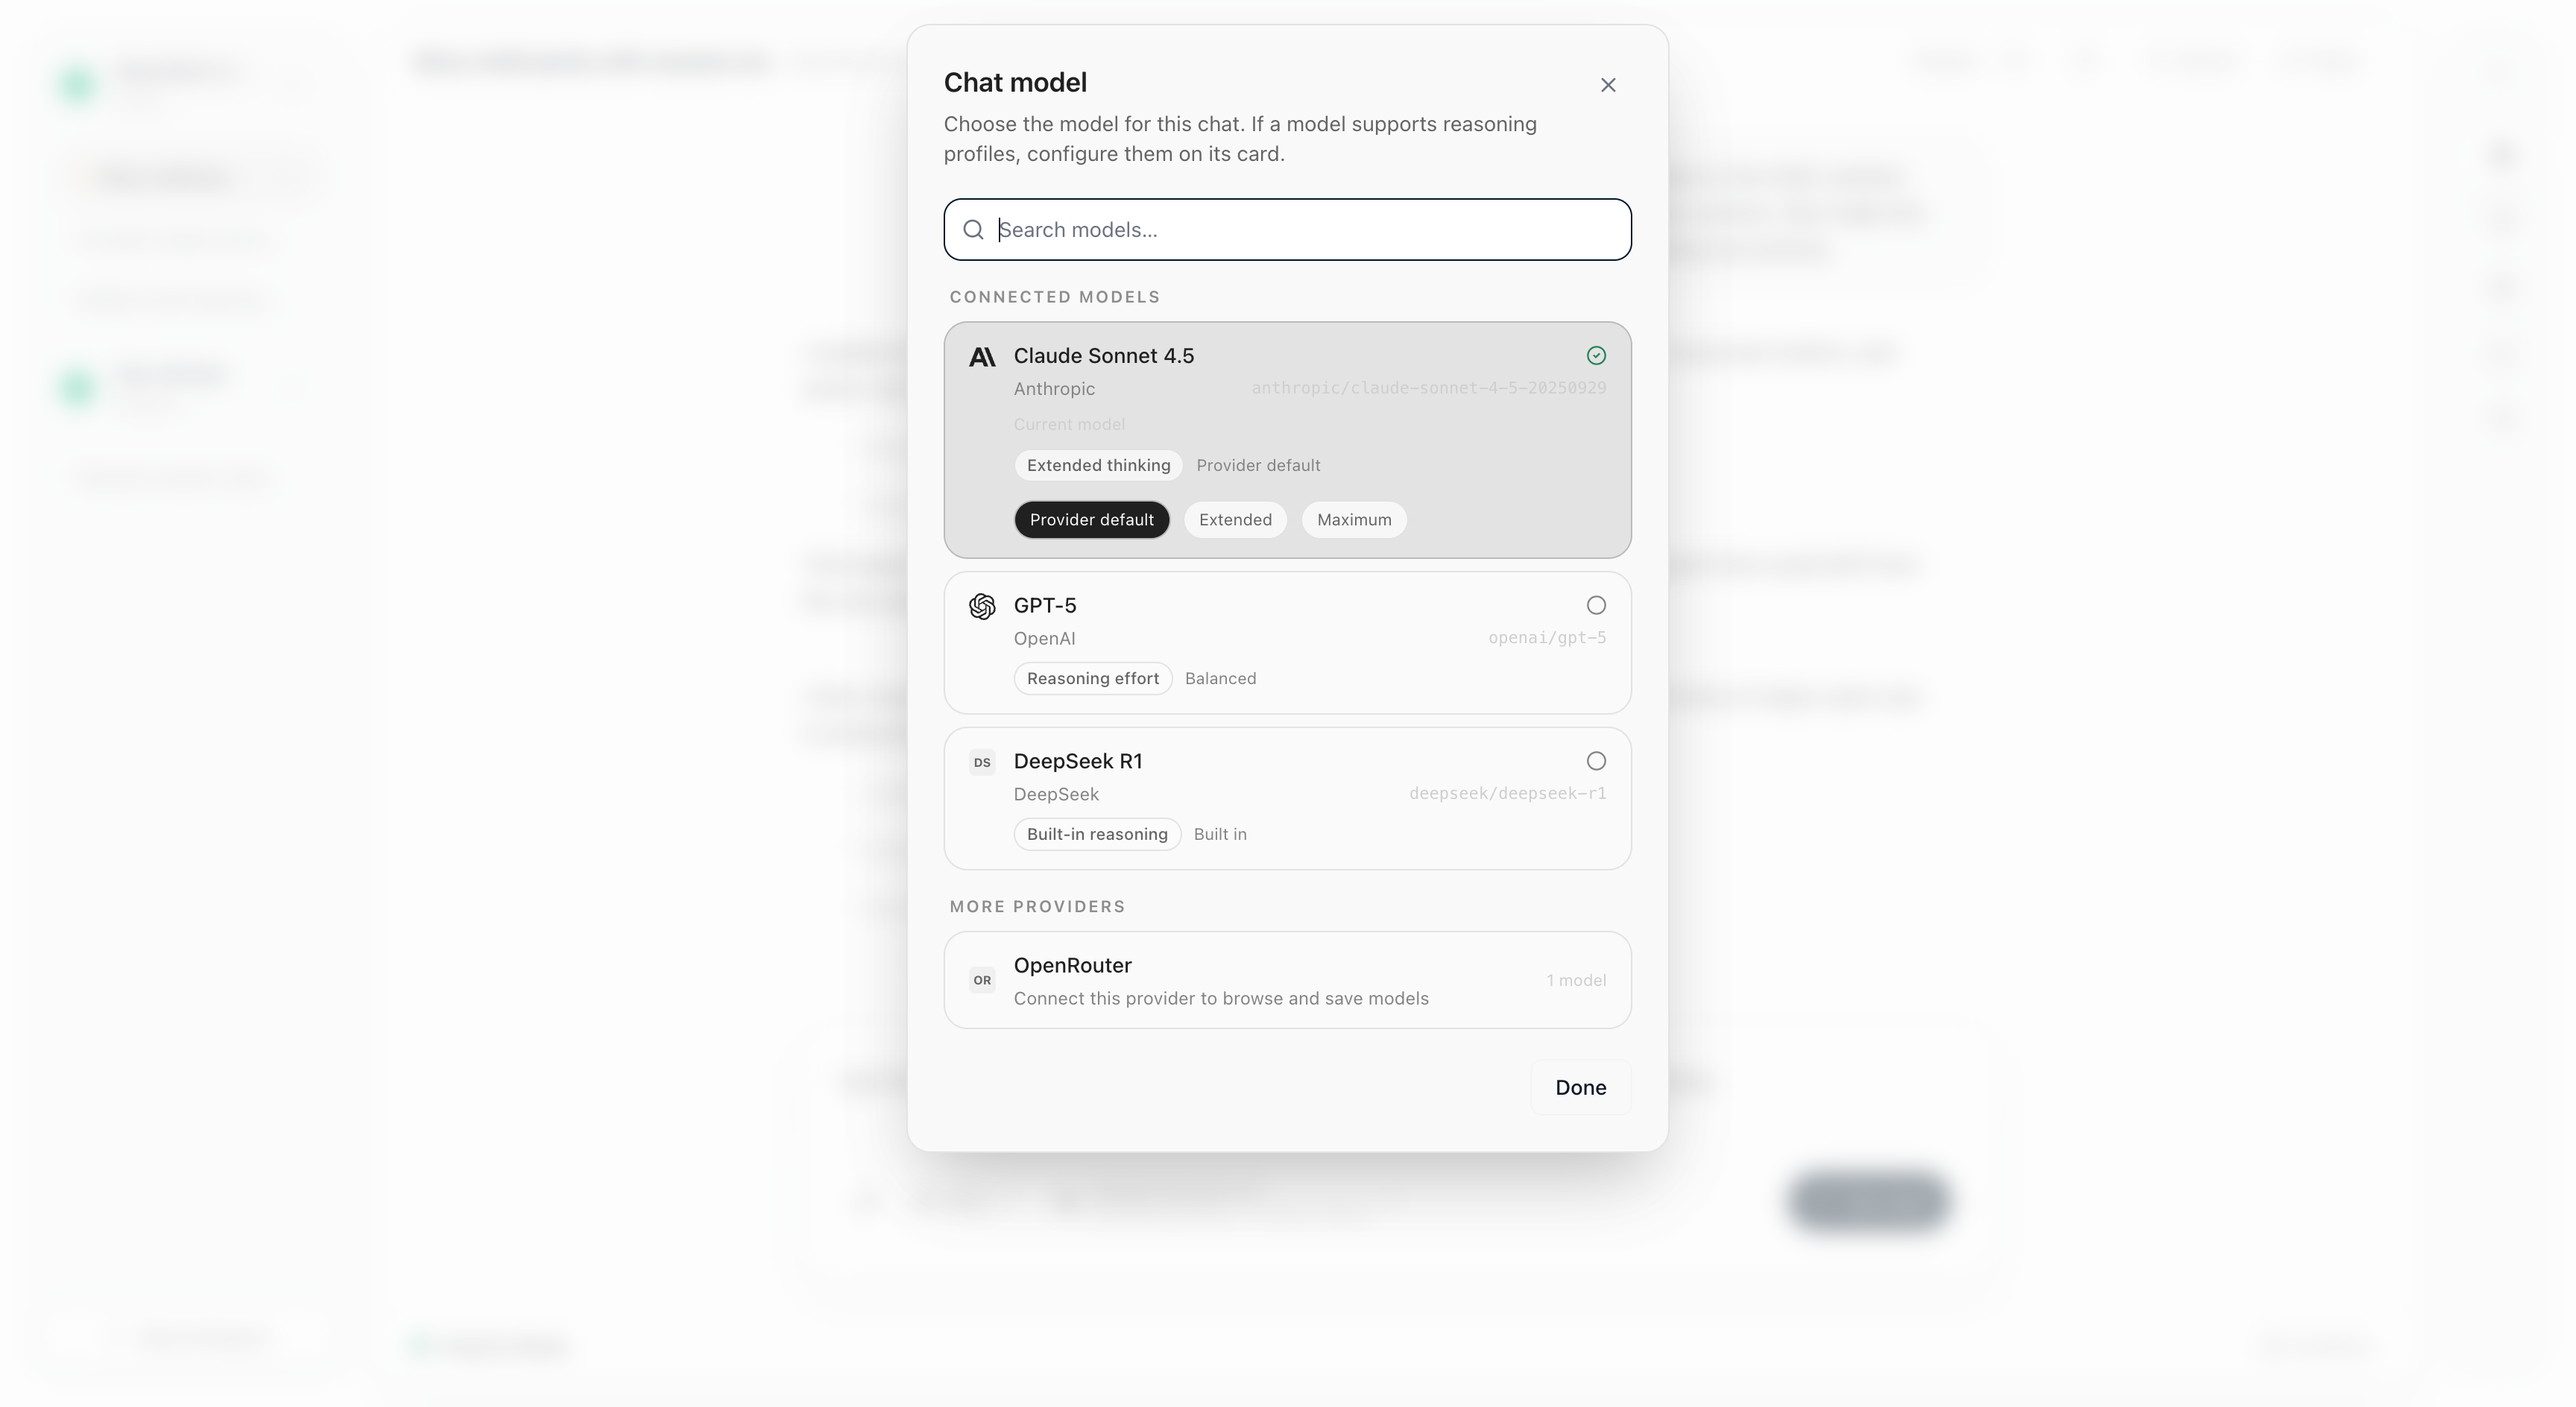
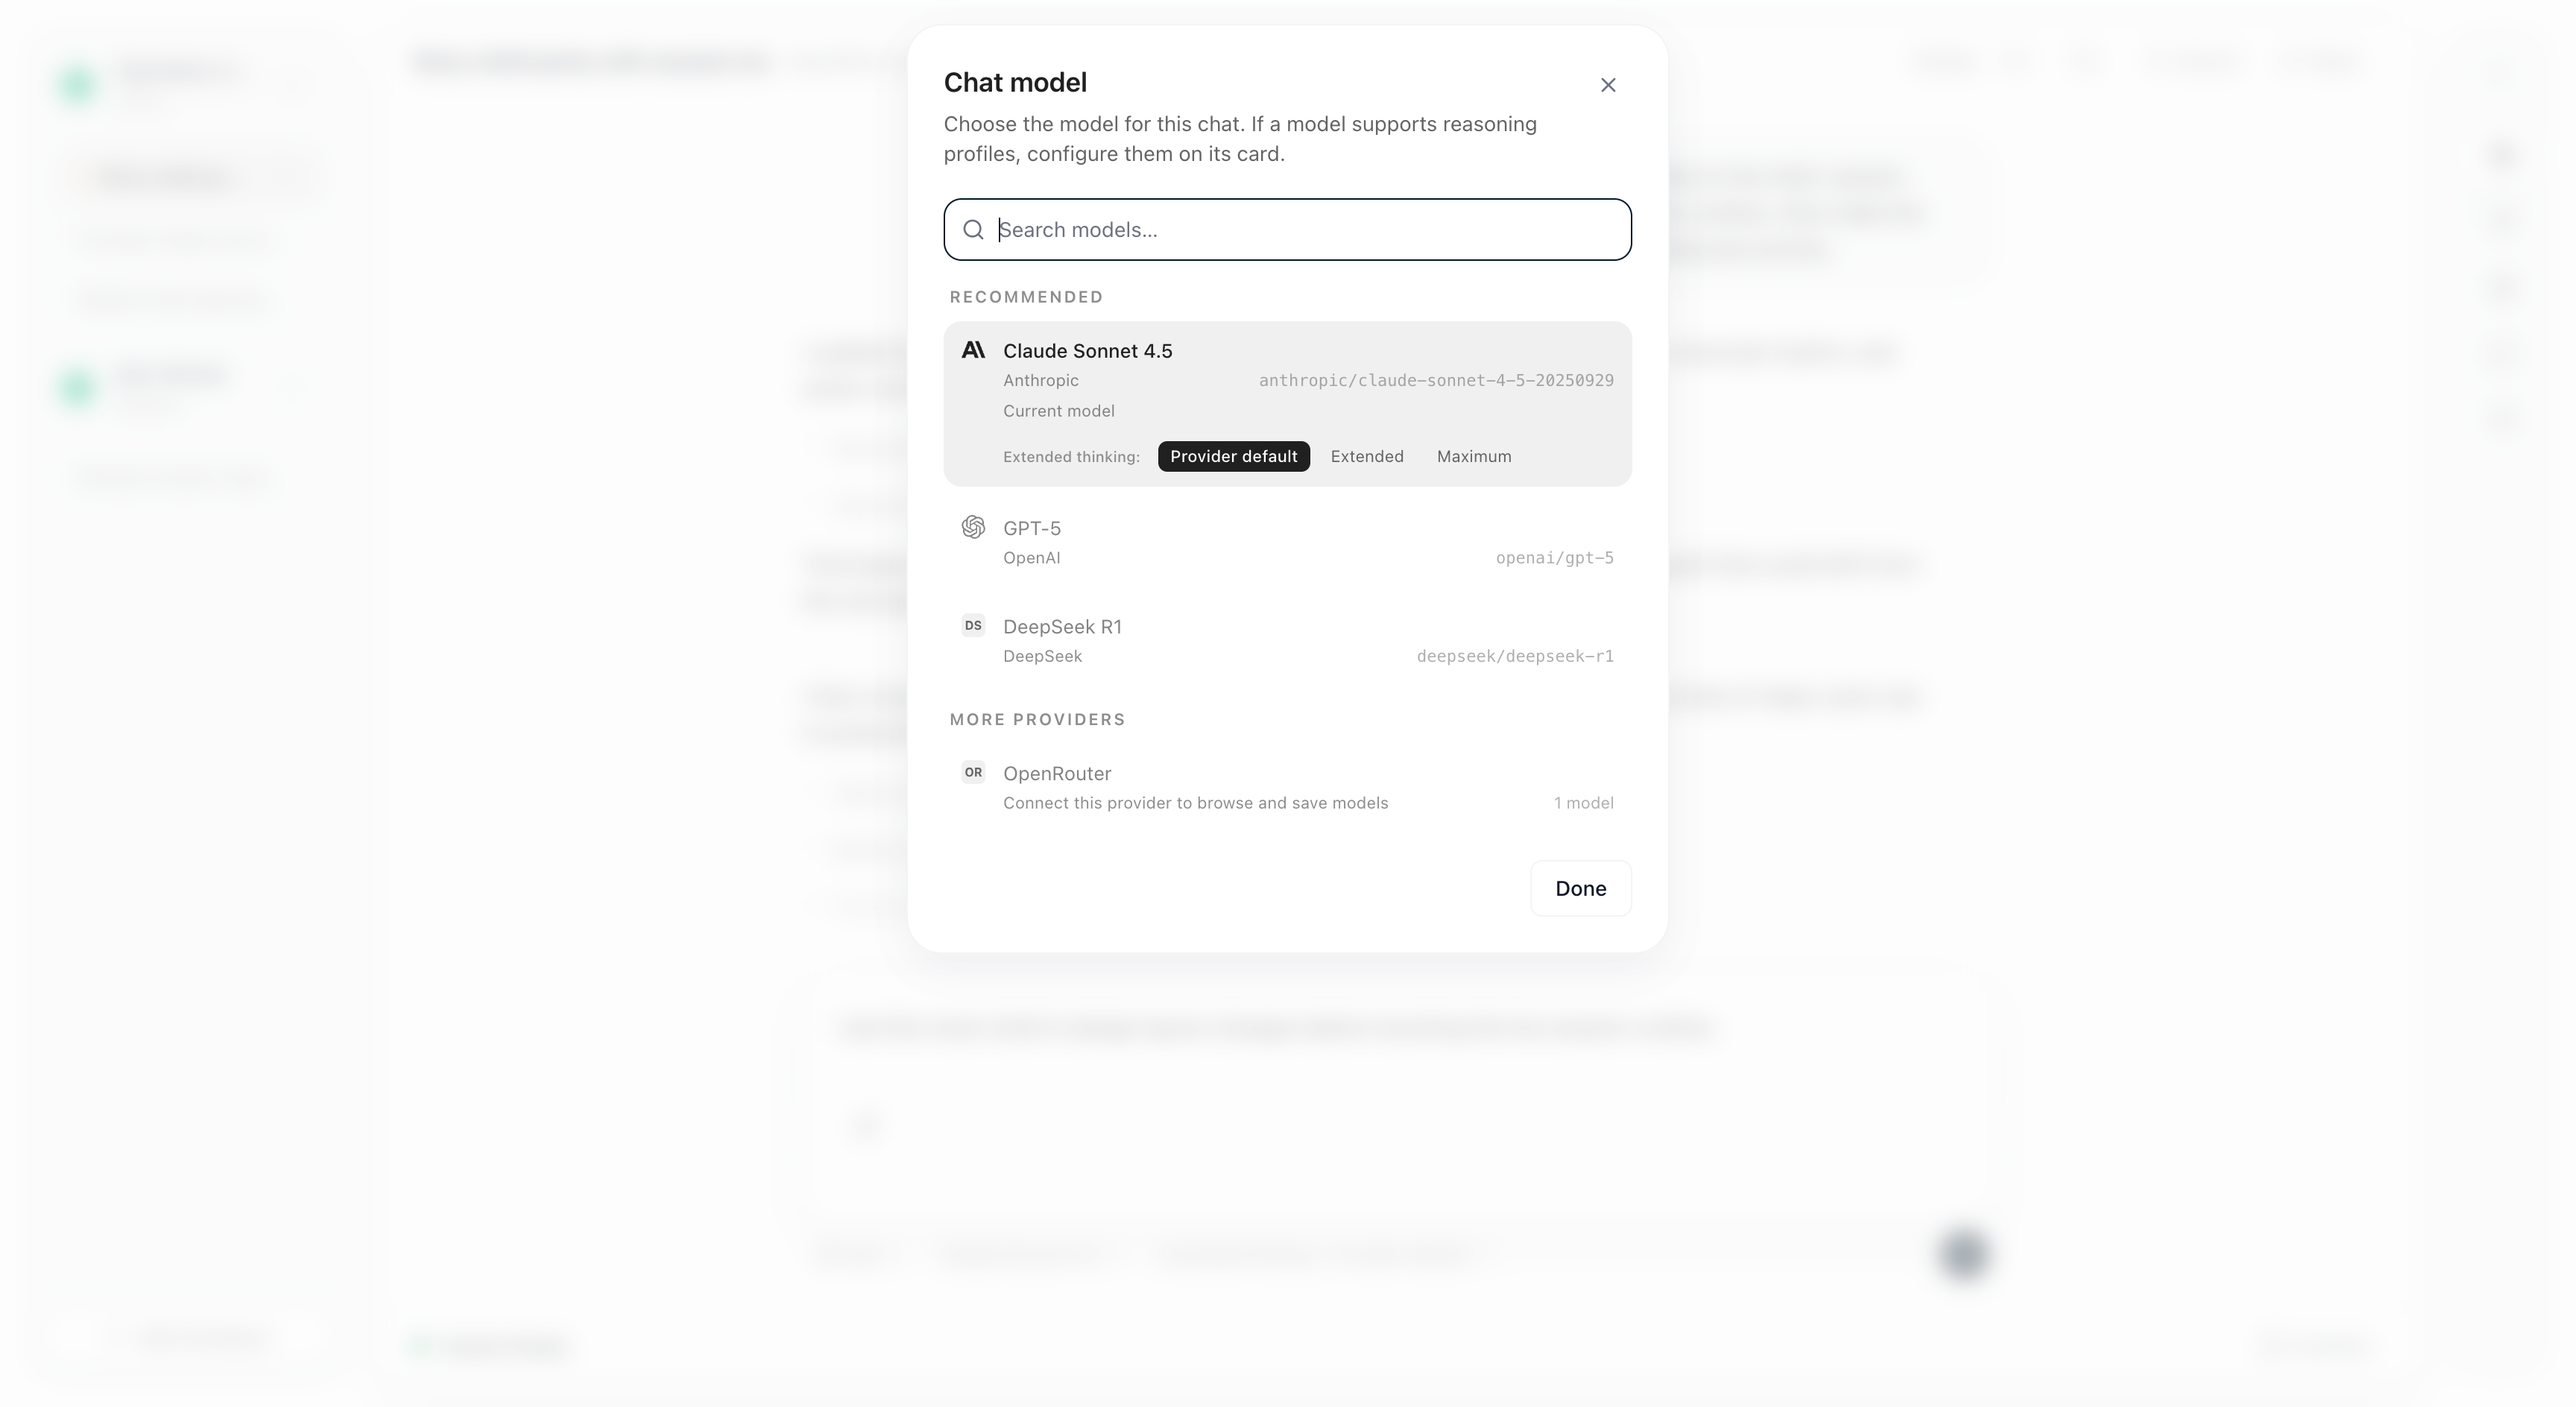
fix(app): flatten model picker options, remove nested buttons, match DLS colors

diff --git a/apps/app/src/app/components/model-picker-modal.tsx b/apps/app/src/app/components/model-picker-modal.tsx
@@ -190,16 +190,18 @@ export default function ModelPickerModal(props: ModelPickerModalProps) {
       });
 
     return (
-      <button
+      <div
+        role="button"
+        tabIndex={0}
         ref={(el) => {
-          optionRefs[index] = el;
+          optionRefs[index] = el as unknown as HTMLButtonElement;
         }}
-        class={`w-full text-left rounded-2xl border px-4 py-3 transition-colors ${
-          index === activeIndex()
-            ? "border-gray-8 bg-gray-12/10"
-            : active()
-              ? "border-gray-6/20 bg-gray-12/5"
-              : "border-gray-6/70 bg-gray-1/40 hover:bg-gray-1/60"
+        class={`group w-full text-left rounded-xl px-3 py-2.5 transition-colors cursor-pointer ${
+          active()
+            ? "bg-gray-3 text-gray-12"
+            : index === activeIndex()
+              ? "bg-gray-2 text-gray-12"
+              : "text-gray-10 hover:bg-gray-1/70 hover:text-gray-11"
         }`}
         onMouseEnter={() => {
           setActiveIndex(index);
@@ -210,72 +212,77 @@ export default function ModelPickerModal(props: ModelPickerModalProps) {
             modelID: opt.modelID,
           });
         }}
+        onKeyDown={(event) => {
+          if (event.key !== "Enter" && event.key !== " ") return;
+          if (event.isComposing || event.keyCode === 229) return;
+          event.preventDefault();
+          props.onSelect({
+            providerID: opt.providerID,
+            modelID: opt.modelID,
+          });
+        }}
       >
         <div class="flex items-start gap-3">
-          <ProviderIcon providerId={opt.providerID} size={18} class="mt-0.5 text-gray-12" />
+          <ProviderIcon providerId={opt.providerID} size={16} class={`mt-[1px] shrink-0 transition-colors ${active() ? 'text-gray-12' : 'text-gray-10 group-hover:text-gray-11'}`} />
           <div class="flex-1 min-w-0">
-            <div class="text-sm font-medium text-gray-12 flex items-center justify-between gap-2">
+            <div class={`text-[13px] flex items-center justify-between gap-2 ${active() ? 'font-medium text-gray-12' : 'text-current'}`}>
               <span class="truncate">{opt.title}</span>
-              <Show when={active()} fallback={<Circle size={14} class="text-gray-10" />}>
-                <CheckCircle2 size={14} class="text-green-11" />
-              </Show>
             </div>
-            <div class="mt-1 flex items-center gap-3 text-xs text-gray-10">
+            <div class={`mt-0.5 flex items-center gap-3 text-[11px] ${active() ? 'text-gray-10' : 'text-gray-9 group-hover:text-gray-10'}`}>
               <span class="truncate">{opt.description ?? opt.providerID}</span>
-              <span class="ml-auto text-[11px] text-gray-7 font-mono">
+              <span class="ml-auto opacity-70 font-mono">
                 {opt.providerID}/{opt.modelID}
               </span>
             </div>
             <Show when={opt.footer}>
-              <div class="text-[11px] text-gray-7 mt-2">{opt.footer}</div>
+              <div class={`text-[11px] mt-1 ${active() ? 'text-gray-10' : 'text-gray-8 group-hover:text-gray-9'}`}>{opt.footer}</div>
             </Show>
-            <div class="mt-2 flex flex-wrap items-center gap-2 text-[11px] text-gray-8">
-              <span class="rounded-full border border-gray-6/70 bg-gray-1/70 px-2 py-0.5 font-medium text-gray-11">
-                {opt.behaviorTitle}
-              </span>
-              <span class="text-gray-10">{opt.behaviorLabel}</span>
-            </div>
             <Show when={active() && (opt.behaviorOptions?.length ?? 0) > 0}>
-              <div class="mt-3 flex flex-wrap gap-2">
-                <For each={opt.behaviorOptions}>
-                  {(option) => (
-                    <button
-                      type="button"
-                      class={`rounded-full border px-2.5 py-1 text-[11px] transition-colors ${
-                        opt.behaviorValue === option.value
-                          ? "border-gray-8 bg-gray-12 text-gray-1"
-                          : "border-gray-6/70 bg-gray-1/80 text-gray-11 hover:bg-gray-2"
-                      }`}
-                      onClick={(event) => {
-                        event.preventDefault();
-                        event.stopPropagation();
-                        props.onBehaviorChange(
-                          { providerID: opt.providerID, modelID: opt.modelID },
-                          option.value,
-                        );
-                      }}
-                    >
-                      {option.label}
-                    </button>
-                  )}
-                </For>
+              <div class="mt-3 flex items-center gap-2" onKeyDown={(e) => e.stopPropagation()}>
+                <span class="text-[10px] font-medium text-gray-9 mr-1">{opt.behaviorTitle}:</span>
+                <div class="flex flex-wrap items-center gap-1.5" onClick={(e) => e.stopPropagation()}>
+                  <For each={opt.behaviorOptions}>
+                    {(option) => (
+                      <button
+                        type="button"
+                        class={`rounded-md text-[11px] px-2 py-0.5 transition-colors ${
+                          opt.behaviorValue === option.value
+                            ? "bg-gray-12 text-gray-1 font-medium"
+                            : "text-gray-11 hover:bg-gray-4 hover:text-gray-12"
+                        }`}
+                        onClick={(event) => {
+                          event.preventDefault();
+                          event.stopPropagation();
+                          props.onBehaviorChange(
+                            { providerID: opt.providerID, modelID: opt.modelID },
+                            option.value,
+                          );
+                        }}
+                      >
+                        {option.label}
+                      </button>
+                    )}
+                  </For>
+                </div>
               </div>
             </Show>
           </div>
         </div>
-      </button>
+      </div>
     );
   };
 
   const renderProviderLink = (provider: { providerID: string; title: string; matchCount: number }, index: number) => (
-    <button
+    <div
+      role="button"
+      tabIndex={0}
       ref={(el) => {
-        optionRefs[index] = el;
+        optionRefs[index] = el as unknown as HTMLButtonElement;
       }}
-      class={`w-full text-left rounded-2xl border px-4 py-3 transition-colors ${
+      class={`group w-full text-left rounded-xl px-3 py-2.5 transition-colors cursor-pointer ${
         index === activeIndex()
-          ? "border-gray-8 bg-gray-12/10"
-          : "border-gray-6/70 bg-gray-1/40 hover:bg-gray-1/60"
+          ? "bg-gray-2 text-gray-12"
+          : "text-gray-10 hover:bg-gray-1/70 hover:text-gray-11"
       }`}
       onMouseEnter={() => {
         setActiveIndex(index);
@@ -284,26 +291,35 @@ export default function ModelPickerModal(props: ModelPickerModalProps) {
         props.onClose({ restorePromptFocus: false });
         props.onOpenSettings();
       }}
+      onKeyDown={(event) => {
+        if (event.key !== "Enter" && event.key !== " ") return;
+        if (event.isComposing || event.keyCode === 229) return;
+        event.preventDefault();
+        props.onClose({ restorePromptFocus: false });
+        props.onOpenSettings();
+      }}
     >
-      <div class="flex items-center gap-3">
-        <ProviderIcon providerId={provider.providerID} size={18} class="text-gray-12" />
+      <div class="flex items-start gap-3">
+        <ProviderIcon providerId={provider.providerID} size={16} class={`mt-[1px] shrink-0 transition-colors ${index === activeIndex() ? 'text-gray-12' : 'text-gray-10 group-hover:text-gray-11'}`} />
         <div class="flex-1 min-w-0">
-          <div class="text-sm font-medium text-gray-12 truncate">{provider.title}</div>
-          <div class="mt-1 text-xs text-gray-10">Connect this provider to browse and save models</div>
-        </div>
-        <div class="flex items-center gap-3 shrink-0">
-          <div class="text-[11px] text-gray-7">
-            {provider.matchCount} {provider.matchCount === 1 ? "model" : "models"}
+          <div class={`text-[13px] flex items-center justify-between gap-2 text-current`}>
+            <span class="truncate">{provider.title}</span>
+          </div>
+          <div class={`mt-0.5 flex items-center gap-3 text-[11px] ${index === activeIndex() ? 'text-gray-10' : 'text-gray-9 group-hover:text-gray-10'}`}>
+            <span class="truncate">Connect this provider to browse and save models</span>
+            <span class="ml-auto opacity-70">
+              {provider.matchCount} {provider.matchCount === 1 ? "model" : "models"}
+            </span>
           </div>
         </div>
       </div>
-    </button>
+    </div>
   );
 
   return (
     <Show when={props.open}>
       <div class="fixed inset-0 z-50 bg-gray-1/60 backdrop-blur-sm flex items-start justify-center p-4 overflow-y-auto">
-        <div class="bg-gray-2 border border-gray-6/70 w-full max-w-lg rounded-2xl shadow-2xl overflow-hidden max-h-[calc(100vh-2rem)] flex flex-col">
+        <div class="bg-dls-surface border border-dls-border w-full max-w-lg rounded-[24px] shadow-[var(--dls-shell-shadow)] overflow-hidden max-h-[calc(100vh-2rem)] flex flex-col">
           <div class="p-6 flex flex-col min-h-0">
             <div class="flex items-start justify-between gap-4">
               <div>

diff --git a/apps/app/pr/model-behavior-picker-ux.md b/apps/app/pr/model-behavior-picker-ux.md
@@ -33,7 +33,8 @@ Verified:
 Verified:
 - The picker explains each model's reasoning pattern (`Reasoning effort`, `Extended thinking`, `Built-in reasoning`).
 - The active model exposes inline behavior options on its card.
-- Switching from Claude to GPT-5 updated the composer label from `Extended thinking · Maximum` to `Reasoning effort · Provider default`.
+- Removed the old heavy pill styling and "BEHAVIOR FOR THIS MODEL" label, replacing it with a flat, structurally consistent list of options that aligns with `DESIGN-LANGUAGE.md`.
+- Fixed an issue where the inline behavior buttons in the picker list were previously structured as `<button>` elements inside another `<button>`, causing click events to be swallowed or trigger the parent selection incorrectly. They are now reliably clickable inside a `<div role="button">`.
 
 ## Validation
 
